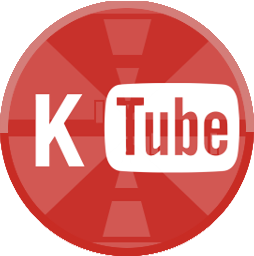
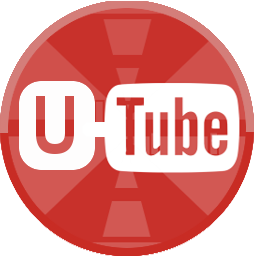
updated with new appname

Changed region(s): [[0.0551, 0.3125, 0.4134, 0.6875]]

diff --git a/web/youtube/main.js b/web/youtube/main.js
@@ -373,7 +373,7 @@ function track_option(track_id){
                             '<a href="#" id="'+songId+'_addToQueue" >Add to queue</a>'+
                         '</li>'+
                         '<li>'+
-                            '<a href="#" id="'+songId+'_watchVideo" >Watch Video</a>'+
+                            '<a href="#" id="'+songId+'_watchVideo" onclick="watch_video(\''+songId+'\');$(\'#popup-'+songId +'\').remove();">Watch Video</a>'+
                         '</li>'+
                         '<li>'+
                             '<a href="#" onclick="open_channel(\''+channelHref.trim()+'\', \''+songId+'\')" >Open Channel</a>'+
@@ -385,7 +385,7 @@ function track_option(track_id){
                 link = "<span >id: "+ songId+"</span>",
                 closebtn = '<a href="#" data-rel="back" class="ui-btn ui-corner-all ui-icon-delete ui-btn-icon-notext ui-btn-right">Close</a>',
                 header = '<div style="margin: -12px -12px 0px -12px;" data-role="header"><h2>Options</h2></div>',
-                img = '<img style="padding: 20px 0px 10px 0px;" src="'+coverUrl+'" alt="' + title + '" class="photo">',
+                img = '<img style="padding: 20px 0px 10px 0px; width:50% !important;height:50% !important;" src="'+coverUrl+'" alt="' + title + '" class="photo">',
                 details = $('#'+track_id).parent().find("p")[0].outerHTML,
                 popup = '<div data-history="false" style="text-align:center;padding:12px 12px; max-width:400px" data-transition="slideup" data-overlay-theme="b" data-dismissible="true" data-position-to="window" data-role="popup" id="popup-' + songId + '" data-short="' + songId +'"  data-corners="false" data-tolerance="15"></div>';
             $( link ).appendTo($( details ));
@@ -402,19 +402,24 @@ function track_option(track_id){
                 $( "#popup-" + songId ).popup( "open" ).trigger("create");
                 $('body').css('overflow','hidden');
 
+
+    $('body').css('overflow','auto');
+
+//        $("#"+songId+"_watchVideo").on("click",function(){
+//                showLoading();
+//                mainwindow.web_watch_video(songId+"<==>"+title+"<==>"+album+"<==>"+artist+"<==>"+coverUrl+"<==>"+songId+"<br>");
+//                $( '#popup-'+songId ).remove();
+//                $('body').css('overflow','auto');
+//                $.mobile.loading("hide");
+//        });
+
         $("#"+songId+"_addToQueue").on("click",function(){
                 $( this ).parent().parent().parent().parent().parent().find("#"+songId).click();
                 $( '#popup-'+songId ).remove();
                 $('body').css('overflow','auto');
         });
 
-        $("#"+songId+"_watchVideo").on("click",function(){
-                showLoading();
-                mainwindow.web_watch_video(songId+"<==>"+title+"<==>"+album+"<==>"+artist+"<==>"+coverUrl+"<==>"+songId+"<br>");
-                $( '#popup-'+songId ).remove();
-                $('body').css('overflow','auto');
-                $.mobile.loading("hide");
-        });
+
 
         $( document ).on( "popupbeforeposition", $('#popup-'+songId ), function() {
             $( '#popup-'+songId).find("ul").listview();

diff --git a/mainwindow.cpp b/mainwindow.cpp
@@ -193,6 +193,7 @@ void MainWindow::init_settings(){
     }
 
     settingsWidget = new QWidget(nullptr);
+    settingsWidget->setWindowTitle(QApplication::applicationName()+"- Settings");
     settingsWidget->setObjectName("settingsWidget");
     settingsUi.setupUi(settingsWidget);
     settingsWidget->setWindowFlags(Qt::Dialog);
@@ -479,9 +480,9 @@ const QColor& SelectColorButton::getColor(){
 //set up app #1
 void MainWindow::init_app(){
 
-    //ktube modifications
+    //utube modifications
     ui->top_widget->hide();
-    //ktube modifications
+    //utube modifications
 
     //init youtube class
     youtube = new Youtube(this);
@@ -498,8 +499,8 @@ void MainWindow::init_app(){
 
 
 
-    setWindowIcon(QIcon(":/icons/ktube.png"));
-    setWindowTitle("Ktube Media Downloader");
+    setWindowIcon(QIcon(":/icons/utube.png"));
+    setWindowTitle(QApplication::applicationName());
 
     ui->album->hide();
 
@@ -554,9 +555,9 @@ void MainWindow::init_webview(){
     QString setting_path =  QStandardPaths::writableLocation(QStandardPaths::DataLocation);
     QString cookieJarPath ;
     if(setting_path.split("/").last().isEmpty()){
-       cookieJarPath  =  setting_path+"/cookiejar_ktube.dat";
+       cookieJarPath  =  setting_path+"/cookiejar_"+QApplication::applicationName()+".dat";
     }else{
-       cookieJarPath  =  setting_path+"cookiejar_ktube.dat";
+       cookieJarPath  =  setting_path+"cookiejar_"+QApplication::applicationName()+".dat";
     }
 
     #ifdef QT_DEBUG
@@ -2026,7 +2027,7 @@ void MainWindow::compare_versions(QString date,QString n_date){
 
     if(update){
         QMessageBox msgBox;
-          msgBox.setText("Ktube Media Downloader Engine update (<b>ver: "+n_date+"</b>) available !");
+          msgBox.setText(QApplication::applicationName()+" Engine update (<b>ver: "+n_date+"</b>) available !");
           msgBox.setIcon(QMessageBox::Information);
           msgBox.setInformativeText("You are having an outdated engine (<b>ver: "+date+"</b>), please update to latest engine for better performance. Update now ?");
           msgBox.setStandardButtons(QMessageBox::Ok | QMessageBox::Cancel);
@@ -2048,9 +2049,9 @@ void MainWindow::compare_versions(QString date,QString n_date){
 void MainWindow::evoke_engine_check(){
     if(settingsUi.engine_status->text()=="Absent"){
         QMessageBox msgBox;
-          msgBox.setText("Ktube Media Downloader need to download its engine which is responsible for finding music online!");
+          msgBox.setText(QApplication::applicationName()+" need to download its engine which is responsible for finding music online!");
           msgBox.setIcon(QMessageBox::Information);
-          msgBox.setInformativeText("Ktube Media Downloader engine (1.4Mb in size) is youtube-dl with some modifications, without this the app will not work properly, Download now ?");
+          msgBox.setInformativeText(QApplication::applicationName()+" engine (1.4Mb in size) is youtube-dl with some modifications, without this the app will not work properly, Download now ?");
           msgBox.setStandardButtons(QMessageBox::Ok | QMessageBox::Cancel);
           QPushButton *p = new QPushButton("Quit",nullptr);
           msgBox.addButton(p,QMessageBox::NoRole);
@@ -2659,7 +2660,7 @@ void MainWindow::playVideo(QString trackId){
         QString titleLabel =store_manager->getTrack(trackId).at(1);
         QProcess *player = new QProcess(this);
         player->setObjectName("player");
-        player->start("mpv",QStringList()<<"--title=MPV for Ktube Media Downloader - "+
+        player->start("mpv",QStringList()<<"--title=MPV for "+QApplication::applicationName()+" - "+
                       titleLabel<<"--no-ytdl"<<files.at(0).filePath()<<"--volume"<<QString::number(radio_manager->volume)
                       );
     }else{

diff --git a/lyrics.cpp b/lyrics.cpp
@@ -38,9 +38,9 @@ Lyrics::Lyrics(QWidget *parent) :
     QString setting_path =  QStandardPaths::writableLocation(QStandardPaths::DataLocation);
     QString cookieJarPath ;
     if(setting_path.split("/").last().isEmpty()){
-       cookieJarPath  =  setting_path+"/cookiejar_ktube.dat";
+       cookieJarPath  =  setting_path+"/cookiejar_"+QApplication::applicationName()+".dat";
     }else{
-       cookieJarPath  =  setting_path+"cookiejar_ktube.dat";
+       cookieJarPath  =  setting_path+"cookiejar_"+QApplication::applicationName()+".dat";
     }
     _networkManager->setCookieJar(new CookieJar(cookieJarPath,_networkManager));
     QNetworkDiskCache* diskCache = new QNetworkDiskCache(this);

diff --git a/download_widget.cpp b/download_widget.cpp
@@ -857,7 +857,7 @@ void Widget::on_downloadList_itemDoubleClicked(QListWidgetItem *item)
          if(statusLabel->text().contains("finished",Qt::CaseInsensitive)){
              QProcess *player = new QProcess(this);
              player->setObjectName("player");
-             player->start("mpv",QStringList()<<"--title=MPV for Ktube Media Downloader - "+
+             player->start("mpv",QStringList()<<"--title=MPV for "+QApplication::applicationName()+" - "+
                            titleLabel->text().toUtf8()<<"--no-ytdl"<<files.at(0).filePath()
                            <<"--volume"<<QString::number(volume));
          }

diff --git a/videooption.cpp b/videooption.cpp
@@ -481,7 +481,7 @@ void VideoOption::playerReadyRead(){
     ui->download->setEnabled(false);
 
     ui->watch->setText("Playing...");
-    this->setWindowTitle("MPV for Ktube Media Downloader - "+currentTitle);
+    this->setWindowTitle("MPV for "+QApplication::applicationName()+" - "+currentTitle);
     if(!playerTimer->isActive()){
         playerTimer->start(500);
     }

diff --git a/main.cpp b/main.cpp
@@ -7,7 +7,7 @@ int main(int argc, char *argv[])
 
     QApplication a(argc, argv);
 
-    QApplication::setApplicationName("Ktube-Media-Downloader");
+    QApplication::setApplicationName("Utube");
     QApplication::setOrganizationName("org.keshavnrj.ubuntu");
 
     a.setStyle(new DarkStyle);
